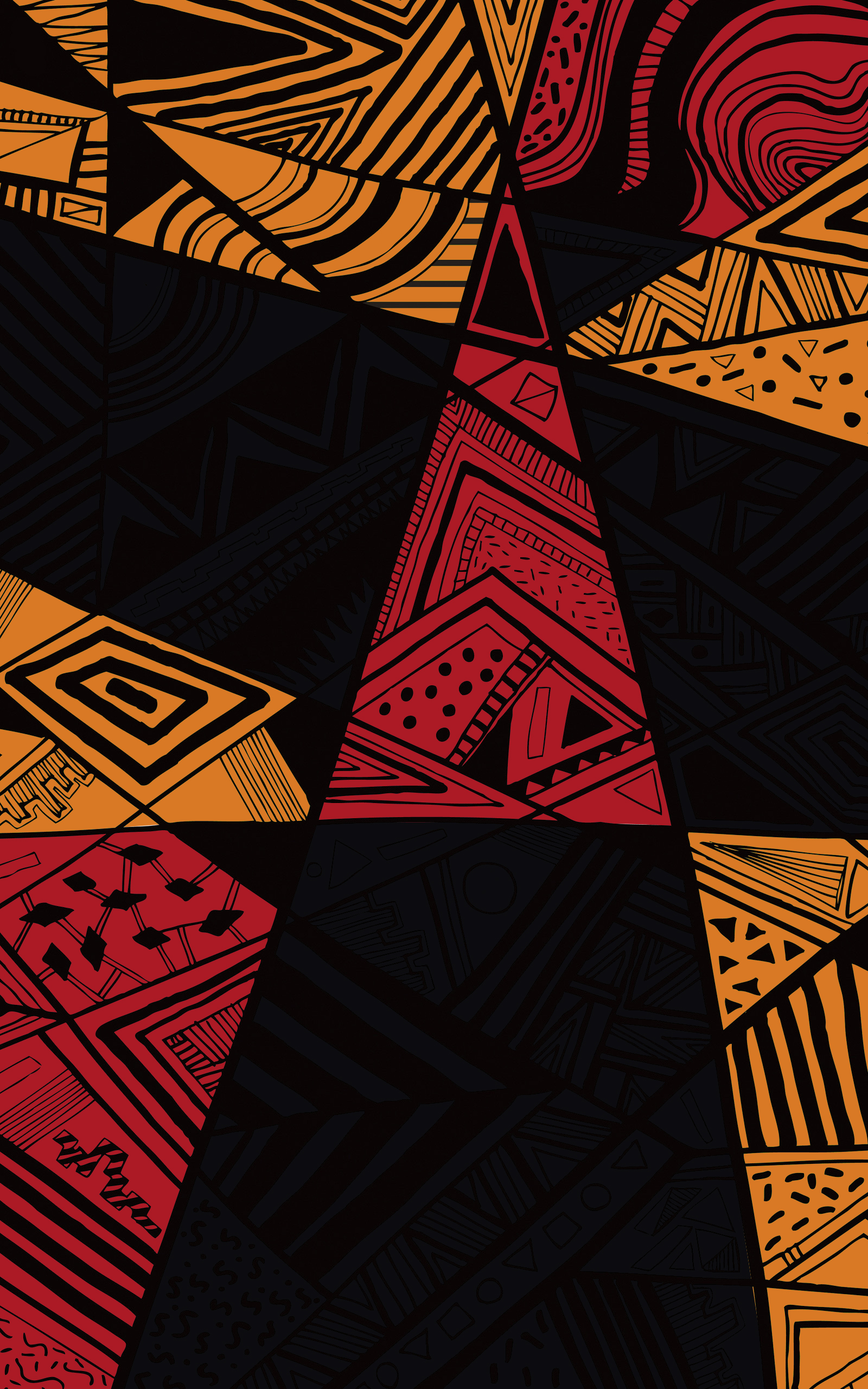
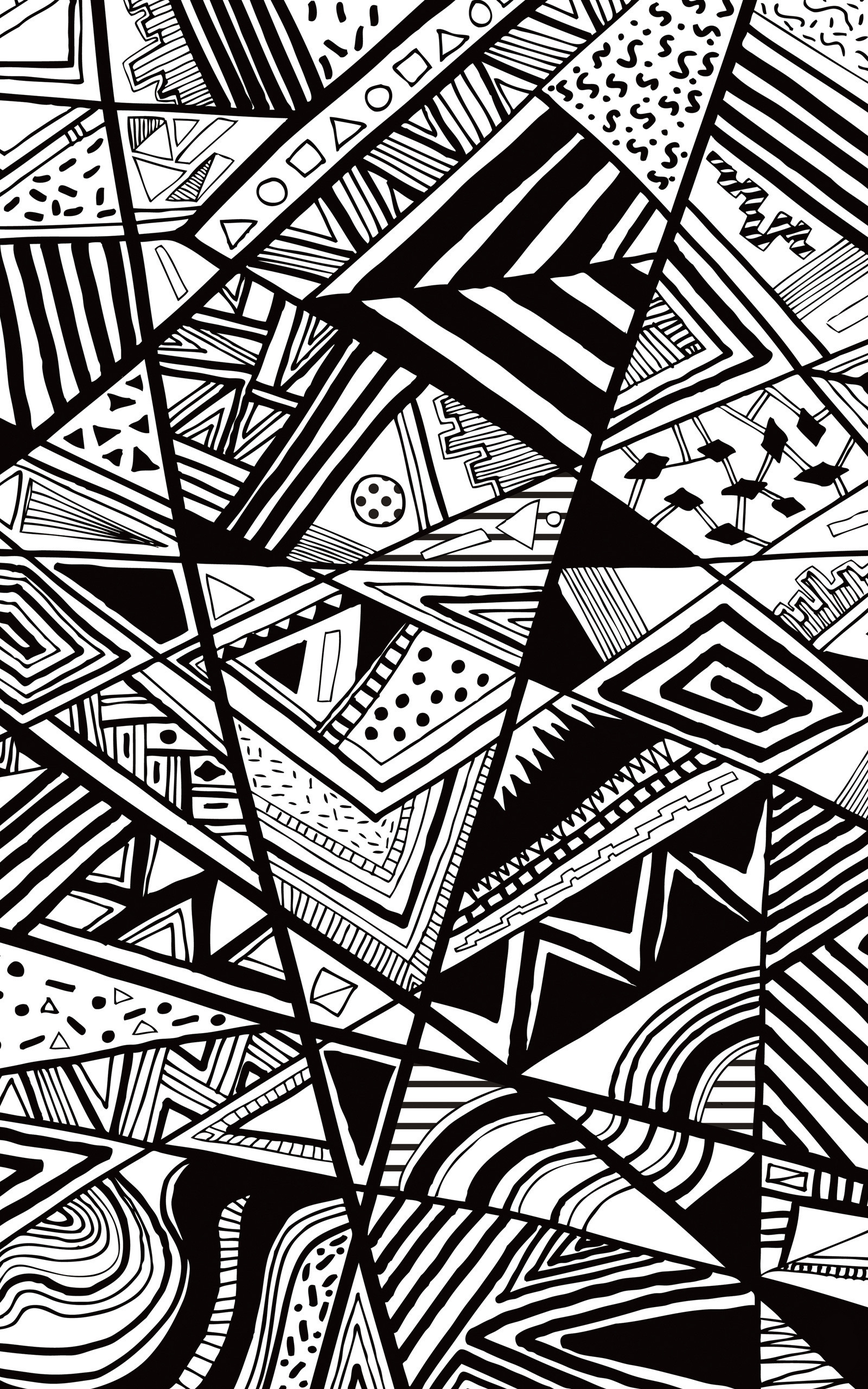
Vy887

diff --git a/style.css b/style.css
@@ -1,19 +1,18 @@
 body {
   width: 65%;
   margin: auto;
-  background-image: url(sources/background.jpg);
+  background-image: url(Sources/background.jpg);
   background-size: 50%;
 }
 
 #portfolio {
-  background-color: rgba(0,0,0,0.95);
+  background-color: rgba(250,250,250,0.98);
   padding: 5%;
-  height: 2800px;
+  overflow: hidden;
 }
 
 header {
   width: 100%;
-  margin-top: 25px;
   margin-bottom: 10px;
   padding-bottom: 25px;
   text-align: right;
@@ -35,7 +34,7 @@ h2 {
 }
 
 p {
-  color: white;
+  color: black;
   font-family: helvetica;
   font-size: 1.2em;
 }
@@ -45,12 +44,6 @@ p {
 }
 
 #profiel {
-  float: left;
-}
-
-#profo {
-  width: 130px;
-  margin-left: 10px;
   float: left;
 }
 
@@ -66,7 +59,7 @@ p {
   width: 60%;
   display: block;
   float: right;
-  border-top: 5px solid white;
+  border-top: 5px solid black;
   margin-bottom: 50px;
 }
 
@@ -110,10 +103,6 @@ iframe {
     width: 100%;
     height: 480px;
   }
-
-  #portfolio {
-    height: 3200px;
-  }
 }
 
 @media screen and (max-width: 1000px) {
@@ -152,8 +141,74 @@ iframe {
   }
 }
 
-@media screen and (max-width: 650px) {
+#ik {
+  width: 70%;
+  float: left;
+}
+
+#profo {
+  width: 25%;
+  float: left;
+  margin-right: 5%;
+}
+
+@media screen and (max-width: 1450px) {
+  iframe {
+    width: 100%;
+    height: 480px;
+  }
+}
+
+@media screen and (max-width: 1000px) {
+  iframe {
+    width: 100%;
+    height: 350px;
+  }
+}
+
+@media screen and (max-width: 900px) {
+  iframe {
+    width: 100%;
+    height: 250px;
+  }
+
+  h1 {
+    font-size: 2.5em;
+  }
+
+  #profiel h2 {
+    font-size: 2em;
+  }
+
+  #profiel p {
+    font-size: 1em;
+  }
+
+  .vak img {
+    margin-bottom: 30px;
+    width: 100%;
+  }
+
   #profo {
-    display: none;
+    width: 100%;
+    margin-bottom: 20px;
+  }
+
+  #ik {
+    width: 100%;
+  }
+}
+
+@media screen and (max-width: 650px) {
+  body {
+    width: 100%;
+    background: black;
+  }
+}
+
+@media only screen and (max-device-width: 480px) {
+  body {
+    width: 100%;
+    background-color: black;
   }
 }

diff --git a/index.html b/index.html
@@ -14,7 +14,6 @@
 	        <h2 id="naam">Senne Krijnen</h2>
 	        <p id="student">Student Grafische & Digitale Media</p>
 	      </div>
-	      <img id="profo" src="https://scontent.fbru1-1.fna.fbcdn.net/v/t1.0-9/13876370_1191667177522093_4852411583878636063_n.jpg?oh=9922711f6b36d889ff56b244b5abf075&oe=5A9453B3">
 	    </header>
 	    <div id="border1">
 	    </div>
@@ -47,6 +46,11 @@
 	        <iframe src="https://www.youtube.com/embed/rqx4c-Z9vSQ" frameborder="0" gesture="media" allowfullscreen></iframe>
 	        <iframe src="https://www.youtube.com/embed/5HJFka0QSoA" frameborder="0" gesture="media" allowfullscreen></iframe>
 	      </div>
+				<h2 class="vak1">OVER MIJ</h2>
+ 				<div class"vak">
+ 					<img id="profo" src="https://scontent.fbru1-1.fna.fbcdn.net/v/t1.0-9/13876370_1191667177522093_4852411583878636063_n.jpg?oh=9922711f6b36d889ff56b244b5abf075&oe=5A9453B3">
+ 					<p id="ik">Ik ben Senne Krijnen en ik ben 19 jaar. Ik zit momenteel in mijn 2e jaar Grafische & Digitale Media (afstudeerrichting Crossmedia Ontwerp) aan de Artesis Plantijn Hogeschool te Antwerpen. Reeds op jonge leeftijd had ik door dat mijn interesse in de digitale wereld heel groot was. In mijn vrije tijd kon je mij meestal vinden achter een computer en dit is nu nog steeds het geval. Door mijn interesse ben ik ook begonnen met mijn huidige studie. Ik heb enorm veel nieuwe dingen geleerd en heb mijn interessegebied een beetje kunnen afbakenen. Mijn focus ligt tegenwoordig namelijk vooral op foto- en videobewerking en webdesign.</p>
+  			</div>
 	    </main>
 		</div>
 	</body>
